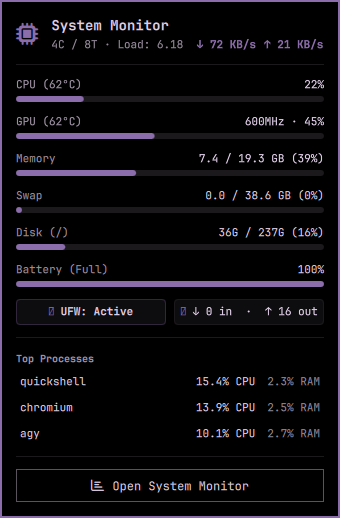
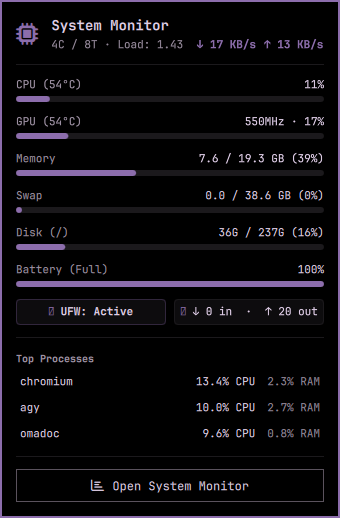
fix(ui): use supported font glyphs for shield and network traffic

diff --git a/Panel.qml b/Panel.qml
@@ -495,7 +495,7 @@ Panel {
 
               Text {
                 textFormat: Text.PlainText
-                text: root.fwActive ? "\uf3ed" : "\uf071"
+                text: root.fwActive ? "\uf132" : "\uf071"
                 color: root.fwActive ? root.accentColor : root.urgentColor
                 font.family: root.fontFamily
                 font.pixelSize: Style.font.bodySmall
@@ -529,7 +529,7 @@ Panel {
 
               Text {
                 textFormat: Text.PlainText
-                text: "\uf6ff"
+                text: "\uf0ec"
                 color: root.accentColor
                 font.family: root.fontFamily
                 font.pixelSize: Style.font.bodySmall
